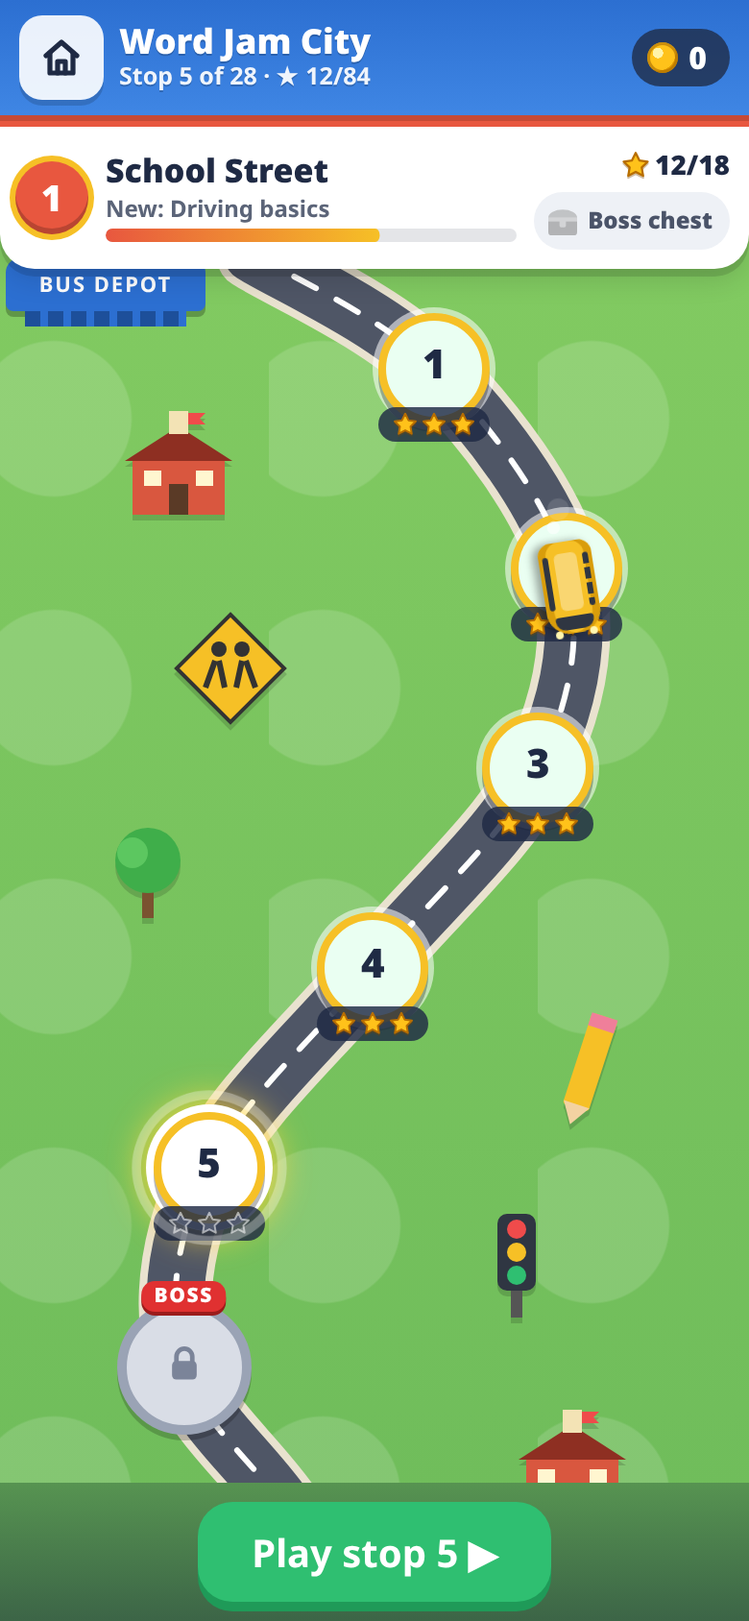
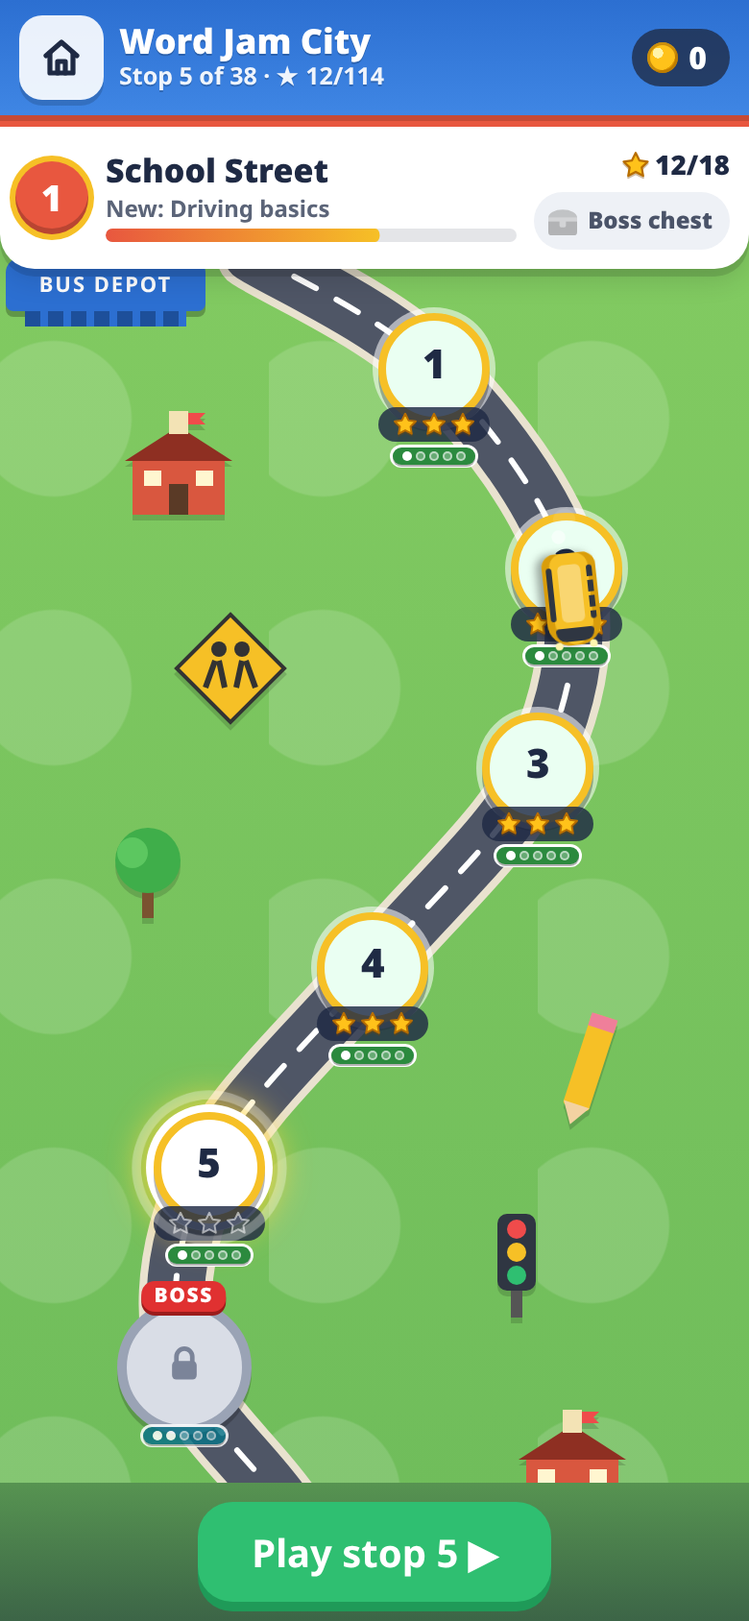
v0.9.1: README (bus lastStop, recalibrated tiers), map-e2e BUS badge and tier-map shots

diff --git a/tests/map-e2e.js b/tests/map-e2e.js
@@ -202,8 +202,8 @@ async function mapBasics(page, ctx, label) {
   check((await p.textContent('#hud-level')).trim() === 'Level ' + R5 + ' of ' + NLEV && (await stored(p)).lastStop === LVS[R5 - 1].id, 'v9.1: replaying earlier stop ' + R5 + ' records it as lastStop');
   // 1. replay an earlier level, then go to the map: the bus is on that level
   await tapEl(p, T, '#btn-menu'); await mapOpen(p); await p.waitForTimeout(800);
-  bi = await busInfo(p); f = await mapFacts(p);
-  check(!bi.driving && bi.at === LVS[R5 - 1].id && bi.off < 2 && f.current === FAR, 'v9.1 regression 1: Map from replayed stop ' + R5 + ': the bus stays at stop ' + R5 + ' (not the furthest stop ' + FAR + '; bus at ' + bi.at + ', ' + bi.off.toFixed(1) + 'px)');
+  bi = await busInfo(p); const rf = await mapFacts(p);
+  check(!bi.driving && bi.at === LVS[R5 - 1].id && bi.off < 2 && rf.current === FAR, 'v9.1 regression 1: Map from replayed stop ' + R5 + ': the bus stays at stop ' + R5 + ' (not the furthest stop ' + FAR + '; bus at ' + bi.at + ', ' + bi.off.toFixed(1) + 'px)');
   await p.evaluate(n => { const m = window.WJB.map, pt = m.point(m.nodeOfLevel(n)), sc = document.getElementById('map-scroll'); sc.scrollTop = Math.max(0, pt.y - sc.clientHeight * 0.45); }, R5);
   await p.waitForTimeout(300);
   await shot(p, 'v9.1-map-bus-on-replayed-stop-390x844.png');
@@ -268,6 +268,27 @@ async function mapBasics(page, ctx, label) {
   await tapEl(p, T, '#btn-lose-menu'); await mapOpen(p); await p.waitForTimeout(800);
   bi = await busInfo(p);
   check(!bi.driving && bi.at === LVS[R7 - 1].id, 'Map from the lose card of stop ' + R7 + ': the bus stays at stop ' + R7);
+
+  // v9.1 tier recalibration: BUS (par 10) is no longer Hard; its banner and header show the new badge; the map's tier badges
+  const BUSN = AT('lv1-bus'), busTier = LVS[BUSN - 1].difficulty;
+  await boot(p, won(BUSN - 1, { chests: { school: true, suburbs: true, mainst: true } }));
+  await tapEl(p, T, '#btn-play'); await mapOpen(p); await notDriving(p); await p.waitForTimeout(300);
+  const badgeRows = await p.evaluate(() => [...document.querySelectorAll('.lvl.stop')].map(b => { const t = b.querySelector('.tier-stop'); return [+b.getAttribute('data-level'), t ? +t.getAttribute('data-tier') : 0]; }));
+  check(badgeRows.length === NLEV && badgeRows.every(([n, t]) => t === LVS[n - 1].difficulty.tier), 'v9.1 map: all ' + NLEV + ' stop badges match the recalibrated tiers in levels.json');
+  await p.evaluate(n => { const m = window.WJB.map, pt = m.point(m.nodeOfLevel(n)), sc = document.getElementById('map-scroll'); sc.scrollTop = Math.max(0, pt.y - sc.clientHeight * 0.6); }, BUSN);
+  await p.waitForTimeout(300);
+  await shot(p, 'v9.1-map-tier-badges-390x844.png');
+  await tapEl(p, T, '#btn-map-play'); await p.waitForSelector('#screen-game.active', { timeout: 5000 });
+  await p.waitForSelector('#banner.show .tier', { timeout: 3000 }).catch(() => {});
+  await p.waitForTimeout(250);
+  const bnT = await p.getAttribute('#banner.show .tier', 'data-tier').catch(() => null), bnTxt = (await p.textContent('#banner')).replace(/\s+/g, ' ').trim();
+  check((await p.textContent('#hud-level')).trim() === 'Level ' + BUSN + ' of ' + NLEV && bnT === String(busTier.tier) && busTier.tier < 4 && busTier.label === 'Normal' && /Normal/.test(bnTxt) && !/Hard/.test(bnTxt), 'v9.1: BUS (stop ' + BUSN + ', par ' + LVS[BUSN - 1].par + ') banner shows the ' + busTier.label + ' badge, not Hard ("' + bnTxt + '")');
+  await shot(p, 'v9.1-bus-banner-normal-390x844.png');
+  await p.waitForFunction(() => !document.querySelector('#banner.show'), null, { timeout: 5000 }).catch(() => {});
+  await p.waitForTimeout(300);
+  const hudT = await p.getAttribute('#hud-tier .tier', 'data-tier'), hudTxt = (await p.textContent('#hud-tier')).trim();
+  check(hudT === String(busTier.tier) && /Normal/.test(hudTxt), 'v9.1: BUS play-screen header shows "Level ' + BUSN + ' of ' + NLEV + '" with the ' + hudTxt + ' badge');
+  await shot(p, 'v9.1-bus-header-normal-390x844.png');
 
   // the boss lot -> chest -> gate -> next district
   console.log('\n# Boss, chest, gate, next district');

diff --git a/README.md b/README.md
@@ -192,7 +192,7 @@ v8 table (v8 stop numbers; v9 added Main Street and moved stops, see [v9](#v9-ma
 The level order and ids are unchanged (the 28 levels were already in this order), so saves keep working. The data is in `levels/districts.json`, which `tools/verify-levels.js --write` copies into `js/levels.js` as `window.WJB_MAP`.
 
 - **The map:** a vertical, scrolling map, centred and wider (up to 820 px) on desktop. Each district has a sticky header with its number, name, "New: <mechanic>", a progress bar, stars (for example 7/15) and a chest chip (Boss chest / Open! / Opened). Stops show their stars, and are styled as current (a pulsing ring), done, locked (padlock), boss (bigger, gold, BOSS tag) and test-opened (dashed red). Scramble stops show a shuffle badge and key levels a key badge. A locked district sits under a fog behind a closed gate with a padlock. The map scrolls to the current stop when it opens.
-- **The bus:** a top-down bus (in your chosen paint) parks just before the stop it is at. When you return to the map it drives along the road from the last stop played to the next one. After a win, **Next stop** drives on to the next stop and starts it. Tap any open stop and the bus drives there, then the level starts; tap it again to skip the drive. The camera follows the bus on long drives. The bus is moved only with `transform` (translate + rotate) in `requestAnimationFrame`, with an ease-in-out, a little bob and exhaust puffs. The first time the bus enters a district, its gate barrier lifts.
+- **The bus:** a top-down bus (in your chosen paint) parks just before the stop it is at. When you return to the map from a level it stays on that stop (v9.1; in v8/v9 it drove on to the Continue stop). After a win, **Next stop** drives on to the next stop and starts it. Tap any open stop and the bus drives there, then the level starts; tap it again to skip the drive. The camera follows the bus on long drives. The bus is moved only with `transform` (translate + rotate) in `requestAnimationFrame`, with an ease-in-out, a little bob and exhaust puffs. The first time the bus enters a district, its gate barrier lifts.
 - **Play-screen tint:** each level's play screen gets a soft tint for its district (warm for School Street, sea and sand for Sunny Beach, deep blue for Harbor Docks, night purple for Downtown).
 - **Reduced motion:** the bus jumps straight to the stop. There is no pulsing, bobbing, rattling, confetti or spinning rays, and the chest opens at once.
 
@@ -226,7 +226,7 @@ Opening the chest is never needed to go on. A ready chest is waiting for you, ne
 
 ### Saves and migration
 
-The save format is still `v: 4`, with new fields added: `inv`, `chests` (opened chests by district id), `paints`, `paint` and `busAt` (where the bus is parked; cosmetic). Older saves (v2, v3 and v4) load with defaults: nothing in the inventory, no chests opened, School Yellow paint. They land on the right district and stop, because the bus starts at the Continue stop.
+The save format is still `v: 4`, with new fields added: `inv`, `chests` (opened chests by district id), `paints`, `paint` and `busAt` (where the bus is parked; cosmetic). v9.1 adds `lastStop` (the level last played or opened). Older saves (v2, v3 and v4) load with defaults: nothing in the inventory, no chests opened, School Yellow paint. They land on the right district and stop, because the bus starts at the Continue stop.
 
 For districts an older save has already finished, the chests are **claimable, one time each**, rather than auto-awarded, so players still get the chest-opening moment. The title says "N chests to open on the map!". The map shows the chests as ready, with a **N chests to open!** button that opens them one after another (the bus doesn't need to drive back). **Reset progress** clears the inventory, chests, paints and bus spot too.
 
@@ -251,7 +251,7 @@ The step from HOUSE (par 9, Easy) to BUS (par 10, but exacting) was the steepest
 | 20 | nm9-bakery | BAKERY | 6x6 | 16 | 3 | 12 | 10/10 / 10/10 | 0.813 | 739,149 | 206 | 16.5 | Normal |
 | 21 | nm10-street | STREET | 5x5 | 12 | 3 | 12 | 11/11 / 11/11 | 0.777 | ≥1,000,000 | 1,116 | 17.4 | Normal |
 
-"≥1,000,000" means the count reached the solver's 1M cap. The lots were found with `tools/normal-lab.js` (random layouts filtered by the normal thresholds) and polished with `tools/normal-improve.js` (a random-edit hill-climb that keeps each lot inside the normal-tier limits), then checked by the verifier.
+Score and tier here are the v9 values; v9.1 re-scored every level (all ten are still Normal, 10.8-14.7), see [Levels (v9 order)](#levels-v9-order). "≥1,000,000" means the count reached the solver's 1M cap. The lots were found with `tools/normal-lab.js` (random layouts filtered by the normal thresholds) and polished with `tools/normal-improve.js` (a random-edit hill-climb that keeps each lot inside the normal-tier limits), then checked by the verifier.
 
 **Comparison** (par / first-move slack at par+1 / on-track share / score):
 
@@ -278,21 +278,21 @@ Within par + 2 nearly every move is "fine" (a wasted slide can be undone with th
 
 ### Difficulty tiers
 
-Every level has a generated `difficulty` field (`tools/difficulty.js --write`; the verifier fails if it doesn't match the formula):
+Every level has a generated `difficulty` field (`tools/difficulty.js --write`; the verifier fails if it doesn't match the formula). **Recalibrated in v9.1** (see [v9.1](#v91-091-the-bus-stays-put-and-recalibrated-tiers)); the v9 formula was `score = par × (1 + 2 × (1 − track)) + 3 × (1 − first)` with bands 7 / 12 / 18 / 60, which made short exacting lots such as BUS (par 10) Hard. Today:
 
-    score = par × (1 + 2 × (1 − track)) + 3 × (1 − first)
+    score = par × (1 + (1 − track)) + 3 × (1 − first)
 
-where `first` = first-move slack at par + 1 (as a share) and `track` = the on-track share at par + 1. A level where every move keeps you on track scores its par; one where only half the moves do scores double.
+where `first` = first-move slack at par + 1 (as a share) and `track` = the on-track share at par + 1. A level where every move keeps you on track scores its par; one where no move does scores at most double. The score band gives a tier, then **par bands** clamp it:
 
-| Tier | Badge | Score |
-|---|---|---|
-| 1 Very Easy | green, 1 pip | < 7 |
-| 2 Easy | teal, 2 pips | 7 to < 12 |
-| 3 Normal | blue, 3 pips | 12 to < 18 |
-| 4 Hard | orange, 4 pips | 18 to < 60 |
-| 5 Super Hard | red, 5 pips | ≥ 60 |
+| Tier | Badge | Score band | Par bands |
+|---|---|---|---|
+| 1 Very Easy | green, 1 pip | < 7 | |
+| 2 Easy | teal, 2 pips | 7 to < 10.5 | par ≤ 8 is at most Easy |
+| 3 Normal | blue, 3 pips | 10.5 to < 20 | par ≥ 9 is at least Normal; par ≤ 12 is at most Normal (never Hard) |
+| 4 Hard | orange, 4 pips | 20 to < 50 | par ≥ 20 is at least Hard; par ≤ 25 is at most Hard |
+| 5 Super Hard | red, 5 pips | ≥ 50 | par ≥ 30 is always Super Hard |
 
-The tier is computed from the unrounded score and depends only on the lot, never on its position; there are no manual overrides, so tiers can go up and down along the map (HOUSE is Easy after the Normal TIGER; PIZZA is Normal; JUNGLE and SUBWAY are Hard). The badge shows coloured pips (and the name on the banner and the HUD), so it never relies on colour alone, and has an aria label ("Difficulty: Normal (3 of 5)"). It shows:
+The tier is computed from the unrounded score and the par, and depends only on the lot, never on its position; there are no manual overrides. Since v9.1 tiers rise district by district (Downtown restarts at Hard for the keys ramp): Very Easy 1-5, Easy 6-8, Normal 9-22, Hard 23-31, Super Hard 32-33, Hard 34-37, Super Hard 38. The badge shows coloured pips (and the name on the banner and the HUD), so it never relies on colour alone, and has an aria label ("Difficulty: Normal (3 of 5)"). It shows:
 - on **map stops**, as a small pip pill under each stop (the stop's aria label also says the tier);
 - on the **level-intro banner** ("Level N · District · Par P" plus the badge, 1.8 s; on Scramble stops in the Scramble banner);
 - in the **play-screen header**, under "Level N of 38".
@@ -346,46 +346,80 @@ The save format is still `v: 4`. Stars, best scores and chests are kept **by lev
 
 ### Levels (v9 order)
 
+Tier and score columns as of v9.1.
+
 | # | District | id | Word | Mode | Par | Tier | First (par+1) | Track (par+1) | Score |
 |---|---|---|---|---|---|---|---|---|---|
 | 1 | School Street | st1-cat | CAT | in order | 3 | Very Easy | 6/6 | 1 | 3.0 |
-| 2 | School Street | st2-dog | DOG | in order | 4 | Very Easy | 3/3 | 0.938 | 4.5 |
-| 3 | School Street | st3-sun | SUN | in order | 5 | Very Easy | 6/6 | 0.92 | 5.8 |
-| 4 | School Street | st4-hat | HAT | in order | 5 | Very Easy | 6/6 | 0.96 | 5.4 |
-| 5 | School Street | st5-fish | FISH | in order | 6 | Very Easy | 8/8 | 0.983 | 6.2 |
-| 6 | School Street | st6-milk | MILK | in order | 6 | Easy | 6/7 | 0.852 | 8.2 |
-| 7 | Maple Suburbs | st7-frog | FROG | in order | 7 | Easy | 7/7 | 0.914 | 8.2 |
-| 8 | Maple Suburbs | st8-train | TRAIN | in order | 8 | Easy | 8/8 | 0.939 | 9.0 |
-| 9 | Maple Suburbs | st9-tiger | TIGER | in order | 9 | Normal | 8/8 | 0.806 | 12.5 |
-| 10 | Maple Suburbs | st10-house | HOUSE | in order | 9 | Easy | 11/12 | 0.911 | 10.8 |
-| 11 | Main Street | nm1-bread | BREAD | in order | 9 | Normal | 10/10 | 0.796 | 12.7 |
-| 12 | Main Street | nm2-shop | SHOP | in order | 9 | Normal | 9/10 | 0.767 | 13.5 |
-| 13 | Main Street | sc1-pizza | PIZZA | **Scramble** | 9 | Normal | 10/11 | 0.795 | 13.0 |
-| 14 | Main Street | nm3-park | PARK | in order | 10 | Normal | 9/10 | 0.856 | 13.2 |
-| 15 | Main Street | nm4-music | MUSIC | in order | 10 | Normal | 12/13 | 0.739 | 15.4 |
-| 16 | Main Street | nm5-candy | CANDY | in order | 10 | Normal | 11/11 | 0.733 | 15.3 |
-| 17 | Main Street | nm6-clock | CLOCK | in order | 11 | Normal | 9/10 | 0.819 | 15.3 |
-| 18 | Main Street | nm7-tower | TOWER | in order | 11 | Normal | 10/10 | 0.773 | 16.0 |
-| 19 | Main Street | nm8-cinema | CINEMA | in order | 11 | Normal | 9/10 | 0.771 | 16.3 |
-| 20 | Main Street | nm9-bakery | BAKERY | in order | 12 | Normal | 10/10 | 0.813 | 16.5 |
-| 21 | Main Street | nm10-street | STREET | in order | 12 | Normal | 11/11 | 0.777 | 17.4 |
-| 22 | Sunny Beach | lv1-bus | BUS | in order | 10 | Hard | 7/8 | 0.59 | 18.6 |
-| 23 | Sunny Beach | lv2-car | CAR | in order | 13 | Hard | 2/8 | 0.316 | 33.0 |
-| 24 | Sunny Beach | lv3-planet | PLANET | in order | 17 | Hard | 2/7 | 0.451 | 37.8 |
-| 25 | Sunny Beach | sc2-jungle | JUNGLE | **Scramble** | 17 | Hard | 7/9 | 0.618 | 30.7 |
-| 26 | Sunny Beach | lv4-apple | APPLE | in order | 21 | Hard | 3/4 | 0.43 | 45.7 |
-| 27 | Sunny Beach | lv5-garden | GARDEN | in order | 24 | Hard | 4/6 | 0.612 | 43.6 |
-| 28 | Harbor Docks | lv6-rocket | ROCKET | in order | 26 | Super Hard | 2/7 | 0.363 | 61.3 |
-| 29 | Harbor Docks | lv7-ticket | TICKET | in order | 27 | Hard | 2/3 | 0.555 | 52.0 |
-| 30 | Harbor Docks | lv8-mother | MOTHER | in order | 26 | Hard | 5/5 | 0.685 | 42.4 |
-| 31 | Harbor Docks | sc3-dragons | DRAGONS | **Scramble** | 22 | Hard | 3/4 | 0.581 | 41.2 |
-| 32 | Harbor Docks | lv9-busstop | BUS + STOP | in order | 30 | Super Hard | 5/12 | 0.241 | 77.3 |
-| 33 | Harbor Docks | lv10-school | SCHOOL | in order | 36 | Super Hard | 1/2 | 0.441 | 77.8 |
-| 34 | Downtown | dt1-bank | BANK | in order | 14 | Hard | 5/10 | 0.41 | 32.0 |
-| 35 | Downtown | sc4-subway | SUBWAY | **Scramble** | 17 | Hard | 3/5 | 0.682 | 29.0 |
-| 36 | Downtown | dt2-hotel | HOTEL | in order | 20 | Hard | 5/11 | 0.473 | 42.7 |
-| 37 | Downtown | dt3-market | MARKET | in order | 22 | Hard | 5/7 | 0.571 | 41.7 |
-| 38 | Downtown | dt4-square | SQUARE | in order | 33 | Super Hard | 4/8 | 0.328 | 78.9 |
+| 2 | School Street | st2-dog | DOG | in order | 4 | Very Easy | 3/3 | 0.938 | 4.3 |
+| 3 | School Street | st3-sun | SUN | in order | 5 | Very Easy | 6/6 | 0.92 | 5.4 |
+| 4 | School Street | st4-hat | HAT | in order | 5 | Very Easy | 6/6 | 0.96 | 5.2 |
+| 5 | School Street | st5-fish | FISH | in order | 6 | Very Easy | 8/8 | 0.983 | 6.1 |
+| 6 | School Street | st6-milk | MILK | in order | 6 | Easy | 6/7 | 0.852 | 7.3 |
+| 7 | Maple Suburbs | st7-frog | FROG | in order | 7 | Easy | 7/7 | 0.914 | 7.6 |
+| 8 | Maple Suburbs | st8-train | TRAIN | in order | 8 | Easy | 8/8 | 0.939 | 8.5 |
+| 9 | Maple Suburbs | st9-tiger | TIGER | in order | 9 | Normal | 8/8 | 0.806 | 10.7 |
+| 10 | Maple Suburbs | st10-house | HOUSE | in order | 9 | Normal | 11/12 | 0.911 | 10.0 |
+| 11 | Main Street | nm1-bread | BREAD | in order | 9 | Normal | 10/10 | 0.796 | 10.8 |
+| 12 | Main Street | nm2-shop | SHOP | in order | 9 | Normal | 9/10 | 0.767 | 11.4 |
+| 13 | Main Street | sc1-pizza | PIZZA | **Scramble** | 9 | Normal | 10/11 | 0.795 | 11.1 |
+| 14 | Main Street | nm3-park | PARK | in order | 10 | Normal | 9/10 | 0.856 | 11.7 |
+| 15 | Main Street | nm4-music | MUSIC | in order | 10 | Normal | 12/13 | 0.739 | 12.8 |
+| 16 | Main Street | nm5-candy | CANDY | in order | 10 | Normal | 11/11 | 0.733 | 12.7 |
+| 17 | Main Street | nm6-clock | CLOCK | in order | 11 | Normal | 9/10 | 0.819 | 13.3 |
+| 18 | Main Street | nm7-tower | TOWER | in order | 11 | Normal | 10/10 | 0.773 | 13.5 |
+| 19 | Main Street | nm8-cinema | CINEMA | in order | 11 | Normal | 9/10 | 0.771 | 13.8 |
+| 20 | Main Street | nm9-bakery | BAKERY | in order | 12 | Normal | 10/10 | 0.813 | 14.2 |
+| 21 | Main Street | nm10-street | STREET | in order | 12 | Normal | 11/11 | 0.777 | 14.7 |
+| 22 | Sunny Beach | lv1-bus | BUS | in order | 10 | Normal | 7/8 | 0.59 | 14.5 |
+| 23 | Sunny Beach | lv2-car | CAR | in order | 13 | Hard | 2/8 | 0.316 | 24.1 |
+| 24 | Sunny Beach | lv3-planet | PLANET | in order | 17 | Hard | 2/7 | 0.451 | 28.5 |
+| 25 | Sunny Beach | sc2-jungle | JUNGLE | **Scramble** | 17 | Hard | 7/9 | 0.618 | 24.2 |
+| 26 | Sunny Beach | lv4-apple | APPLE | in order | 21 | Hard | 3/4 | 0.43 | 33.7 |
+| 27 | Sunny Beach | lv5-garden | GARDEN | in order | 24 | Hard | 4/6 | 0.612 | 34.3 |
+| 28 | Harbor Docks | lv6-rocket | ROCKET | in order | 26 | Hard | 2/7 | 0.363 | 44.7 |
+| 29 | Harbor Docks | lv7-ticket | TICKET | in order | 27 | Hard | 2/3 | 0.555 | 40.0 |
+| 30 | Harbor Docks | lv8-mother | MOTHER | in order | 26 | Hard | 5/5 | 0.685 | 34.2 |
+| 31 | Harbor Docks | sc3-dragons | DRAGONS | **Scramble** | 22 | Hard | 3/4 | 0.581 | 32.0 |
+| 32 | Harbor Docks | lv9-busstop | BUS + STOP | in order | 30 | Super Hard | 5/12 | 0.241 | 54.5 |
+| 33 | Harbor Docks | lv10-school | SCHOOL | in order | 36 | Super Hard | 1/2 | 0.441 | 57.6 |
+| 34 | Downtown | dt1-bank | BANK | in order | 14 | Hard | 5/10 | 0.41 | 23.8 |
+| 35 | Downtown | sc4-subway | SUBWAY | **Scramble** | 17 | Hard | 3/5 | 0.682 | 23.6 |
+| 36 | Downtown | dt2-hotel | HOTEL | in order | 20 | Hard | 5/11 | 0.473 | 32.2 |
+| 37 | Downtown | dt3-market | MARKET | in order | 22 | Hard | 5/7 | 0.571 | 32.3 |
+| 38 | Downtown | dt4-square | SQUARE | in order | 33 | Super Hard | 4/8 | 0.328 | 56.7 |
+
+## v9.1 (0.9.1): the bus stays put, and recalibrated tiers
+
+### The bus stays on the stop you were playing
+
+A player at stop 23 who went back to an earlier stop and played forward one level at a time saw the bus drive back to 23 every time they tapped the map button in a level: the map always sent the bus to the Continue stop (the first unsolved stop after the furthest win). Now:
+- The save has a new field, **`lastStop`**: the id of the level last played or opened. It is set when a level starts (from the map, Next stop or a `#level-N` link) and whenever the bus parks at a stop. Like `busAt`, it is saved only for really-open stops with no test option on, so cheats still never touch the real save.
+- **Map from inside a level** (the HUD map button) and **Map after a loss**: the bus stays on that level.
+- **After a win**, the bus may move on only as part of the won-level flow, to the **stop right after the level just won**: **Next stop** drives there and starts it (as before), and **Map** on the win card parks the bus there. After a boss win with a ready chest it still drives to the chest; after the last level it stays.
+- **Title Play / Continue and `#map`** show the bus at `lastStop` instead of driving it to the furthest stop. That is the one change to Continue, because driving to the furthest stop is exactly the jump being fixed. The Continue *target* is unchanged: the pulsing current-stop ring and the map's foot button ("Play stop 23 ▶") still point at the first unsolved stop, so the furthest stop is one tap away.
+- **Older saves** (no `lastStop`) keep the old behaviour once: the bus drives from `busAt` to the Continue stop, and from then on `lastStop` is saved. Nothing else in the save changes.
+
+`tests/map-e2e.js` checks it with real taps (a save at stop 23): replaying stop 5 then the map button keeps the bus at 5, also after a reload and through the title's Continue; after winning a replayed stop 5 the win card's Map parks it at 6 and Next stop drives only to 6, never to 23; quitting stop 7 one move in and losing stop 7 both leave the bus at 7; and a save without `lastStop` still drives to the Continue stop.
+
+### Tier recalibration
+
+BUS (par 10) showed **Hard** (v9 score 18.6) but plays easy: the v9 formula weighted the on-track penalty twice as much as length, so a short lot with a few wrong turns crossed into Hard. v9.1 halves the on-track weight (par now counts at least as much as the penalty can add) and adds par bands, so a short lot can never be Hard and the longest lots are always Super Hard; see [Difficulty tiers](#difficulty-tiers) for the formula and bands. All 38 levels were re-rated; three changed:
+
+| # | Word | Par | v9 tier (score) | v9.1 tier (score) | Why |
+|---|---|---|---|---|---|
+| 10 | HOUSE | 9 | Easy (10.8) | Normal (10.0) | par 9, as long as TIGER and the Main Street lots; the par ≥ 9 floor ends the dip after the Normal TIGER |
+| 22 | BUS | 10 | Hard (18.6) | Normal (14.5) | par 10 can never be Hard; its score now sits with the Main Street lots (12.7-14.7) |
+| 28 | ROCKET | 26 | Super Hard (61.3) | Hard (44.7) | with the on-track weight halved it scores in line with TICKET (27, 40.0) and MOTHER (26, 34.2); Harbor Docks now rises Hard → Super Hard at BUS + STOP and SCHOOL |
+
+Sanity targets: CAT Very Easy (3.0); every Main Street normal lot (par 9-12) Normal; BUS Normal; SCHOOL (par 36, 57.6) and SQUARE (par 33, 56.7) Super Hard. Totals: **Very Easy 5, Easy 3, Normal 14, Hard 13, Super Hard 3**.
+
+The verifier checks the stored `difficulty` against `tools/difficulty.js` and, separately, re-derives the tier and checks every par band, so any mismatch fails. `tests/rules.js` checks the targets above, `tierOf` on edge cases, and that tiers rise district by district.
+
+### Other
+
+- `index.html` carries `<meta name="wjb-version" content="0.9.1">` (also `window.WJB.version`); `package.json` is 0.9.1.
+- Screenshots: `screenshots/v9.1-map-bus-on-replayed-stop-390x844.png` (bus on replayed stop 5 while stop 23 is the current stop), `v9.1-bus-banner-normal-390x844.png`, `v9.1-bus-header-normal-390x844.png` and `v9.1-map-tier-badges-390x844.png`.
 
 ## Levels
 
@@ -535,7 +569,7 @@ The design checks depend on the level's `tier`:
 - **Bay Words:** each level is also solved with the Bay Word rule off and par must match, so a Bay Word is never needed for par; reachable Bay Words are listed.
 - **Scramble** (`mode: "scramble"`): core tier, needs slides, in-order play of the same lot is impossible or at least 2 moves slower, junk exits are reported; pacing: after the starters, at least 3 in-order levels between Scramble levels, par **in line** with the in-order levels just before and after it (0.8 × min to 1.2 × max; v9, replacing the old "60-99% breather" rule), every district after the starter ramp has a Scramble stop, and the first Scramble level has a tip.
 - **`normal`** (v9, Main Street): the normal-tier thresholds in [v9](#variety-metrics) (par 9-12, first-move slack, on-track share, optimal and par+2 sequence counts, no keys/chunks/taxi, a reachable loss, a tip, gentle par steps).
-- **Variety and difficulty** (v9, every level): the variety metrics are printed for every level, and the stored `difficulty` must match `tools/difficulty.js` (tier and score).
+- **Variety and difficulty** (v9, every level): the variety metrics are printed for every level, and the stored `difficulty` must match `tools/difficulty.js` (tier and score), and (v9.1) the tier is re-derived from the score and par and every par band is checked (par ≤ 12 never Hard, par ≥ 30 always Super Hard, and so on).
 - **`core`** in-order levels (default; 11-23 except the Scramble levels): every car carrying a word letter starts blocked; the optimal line needs slides; driving forward only is impossible or slower (except the first core level); par never falls below 75% of an earlier core level's.
 - **`starter`** (levels 1-10): the mechanic named in `teaches` must really be needed: `exit` = the best line is taps only; `slide` = it can't be won as fast without partial slides, and needs no reverse and no bay; `reverse` = it can't be won as fast driving forward only, and needs no bay; `bay` = it can't be won as fast without parking a letter; `trucks` = has a long truck; `bay-limit` = a loss is reachable. `"safe": true` means no losing move exists anywhere. Every starter level needs a tip, starter par never goes down, stays below the first core level's par, and the last starter is within 2 of it.
 - `js/levels.js` is in sync with the JSON, and `js/baywords.js` with `levels/baywords.json` (all 3 letters, each with a vowel);
@@ -573,7 +607,8 @@ node tools/verify-levels.js       # every level + map rules + the Python cross-c
 `tests/map-e2e.js` covers the map:
 - rendering: 6 themed districts, 38 stops, 6 chests; Scramble, key and BOSS markers; 44 px targets; no sideways overflow; the sticky header; the current stop in view;
 - tapping a stop to play it; a locked stop can't be tapped;
-- the bus: driving after **Next stop** (mid-drive check) and parking at the right stop, which then starts; driving from the last stop played to the current one via the HUD map button, ending within 2 px of its spot; transform-only movement; a tap that drives back, with a second tap skipping;
+- the bus: driving after **Next stop** (mid-drive check) and parking at the right stop, which then starts; the HUD map button keeping the bus on the stop being played (v9.1); a save without `lastStop` driving from `busAt` to the current stop, ending within 2 px of its spot; transform-only movement; a tap that drives back, with a second tap skipping;
+- v9.1 bus regressions (replay an earlier stop then the map, a win on a replayed stop, quitting mid-level, a loss) and the BUS banner / header with its new Normal badge;
 - the boss: "Open the chest!", the bus driving to the chest, closed, opening and open states, the claim saved once (coins and inventory), rewards shown, Collect, the gate lifting and the bus parking at the next district's first stop; an opened chest not paying twice (also after a reload); a locked district and a locked chest;
 - the inventory: badges, "Free", the confirm text, used before coins, Undo refunding it to the inventory, a free Tow win capped at 2 stars, coin prices back when empty;
 - migration: a v8 save that beat 1-10 + BUS gets two claimable catch-up chests (School Street, and Maple Suburbs whose boss is now HOUSE; paint unlocked and worn, Settings paint picker), the Main Street chest stays locked, the title says "New: Main Street, 10 new stops!" and the bus goes on to CAR; v8 saves waiting at BUS or with all 28 won continue at Main Street stop 11; v2 and v3 saves land on the right stop;
